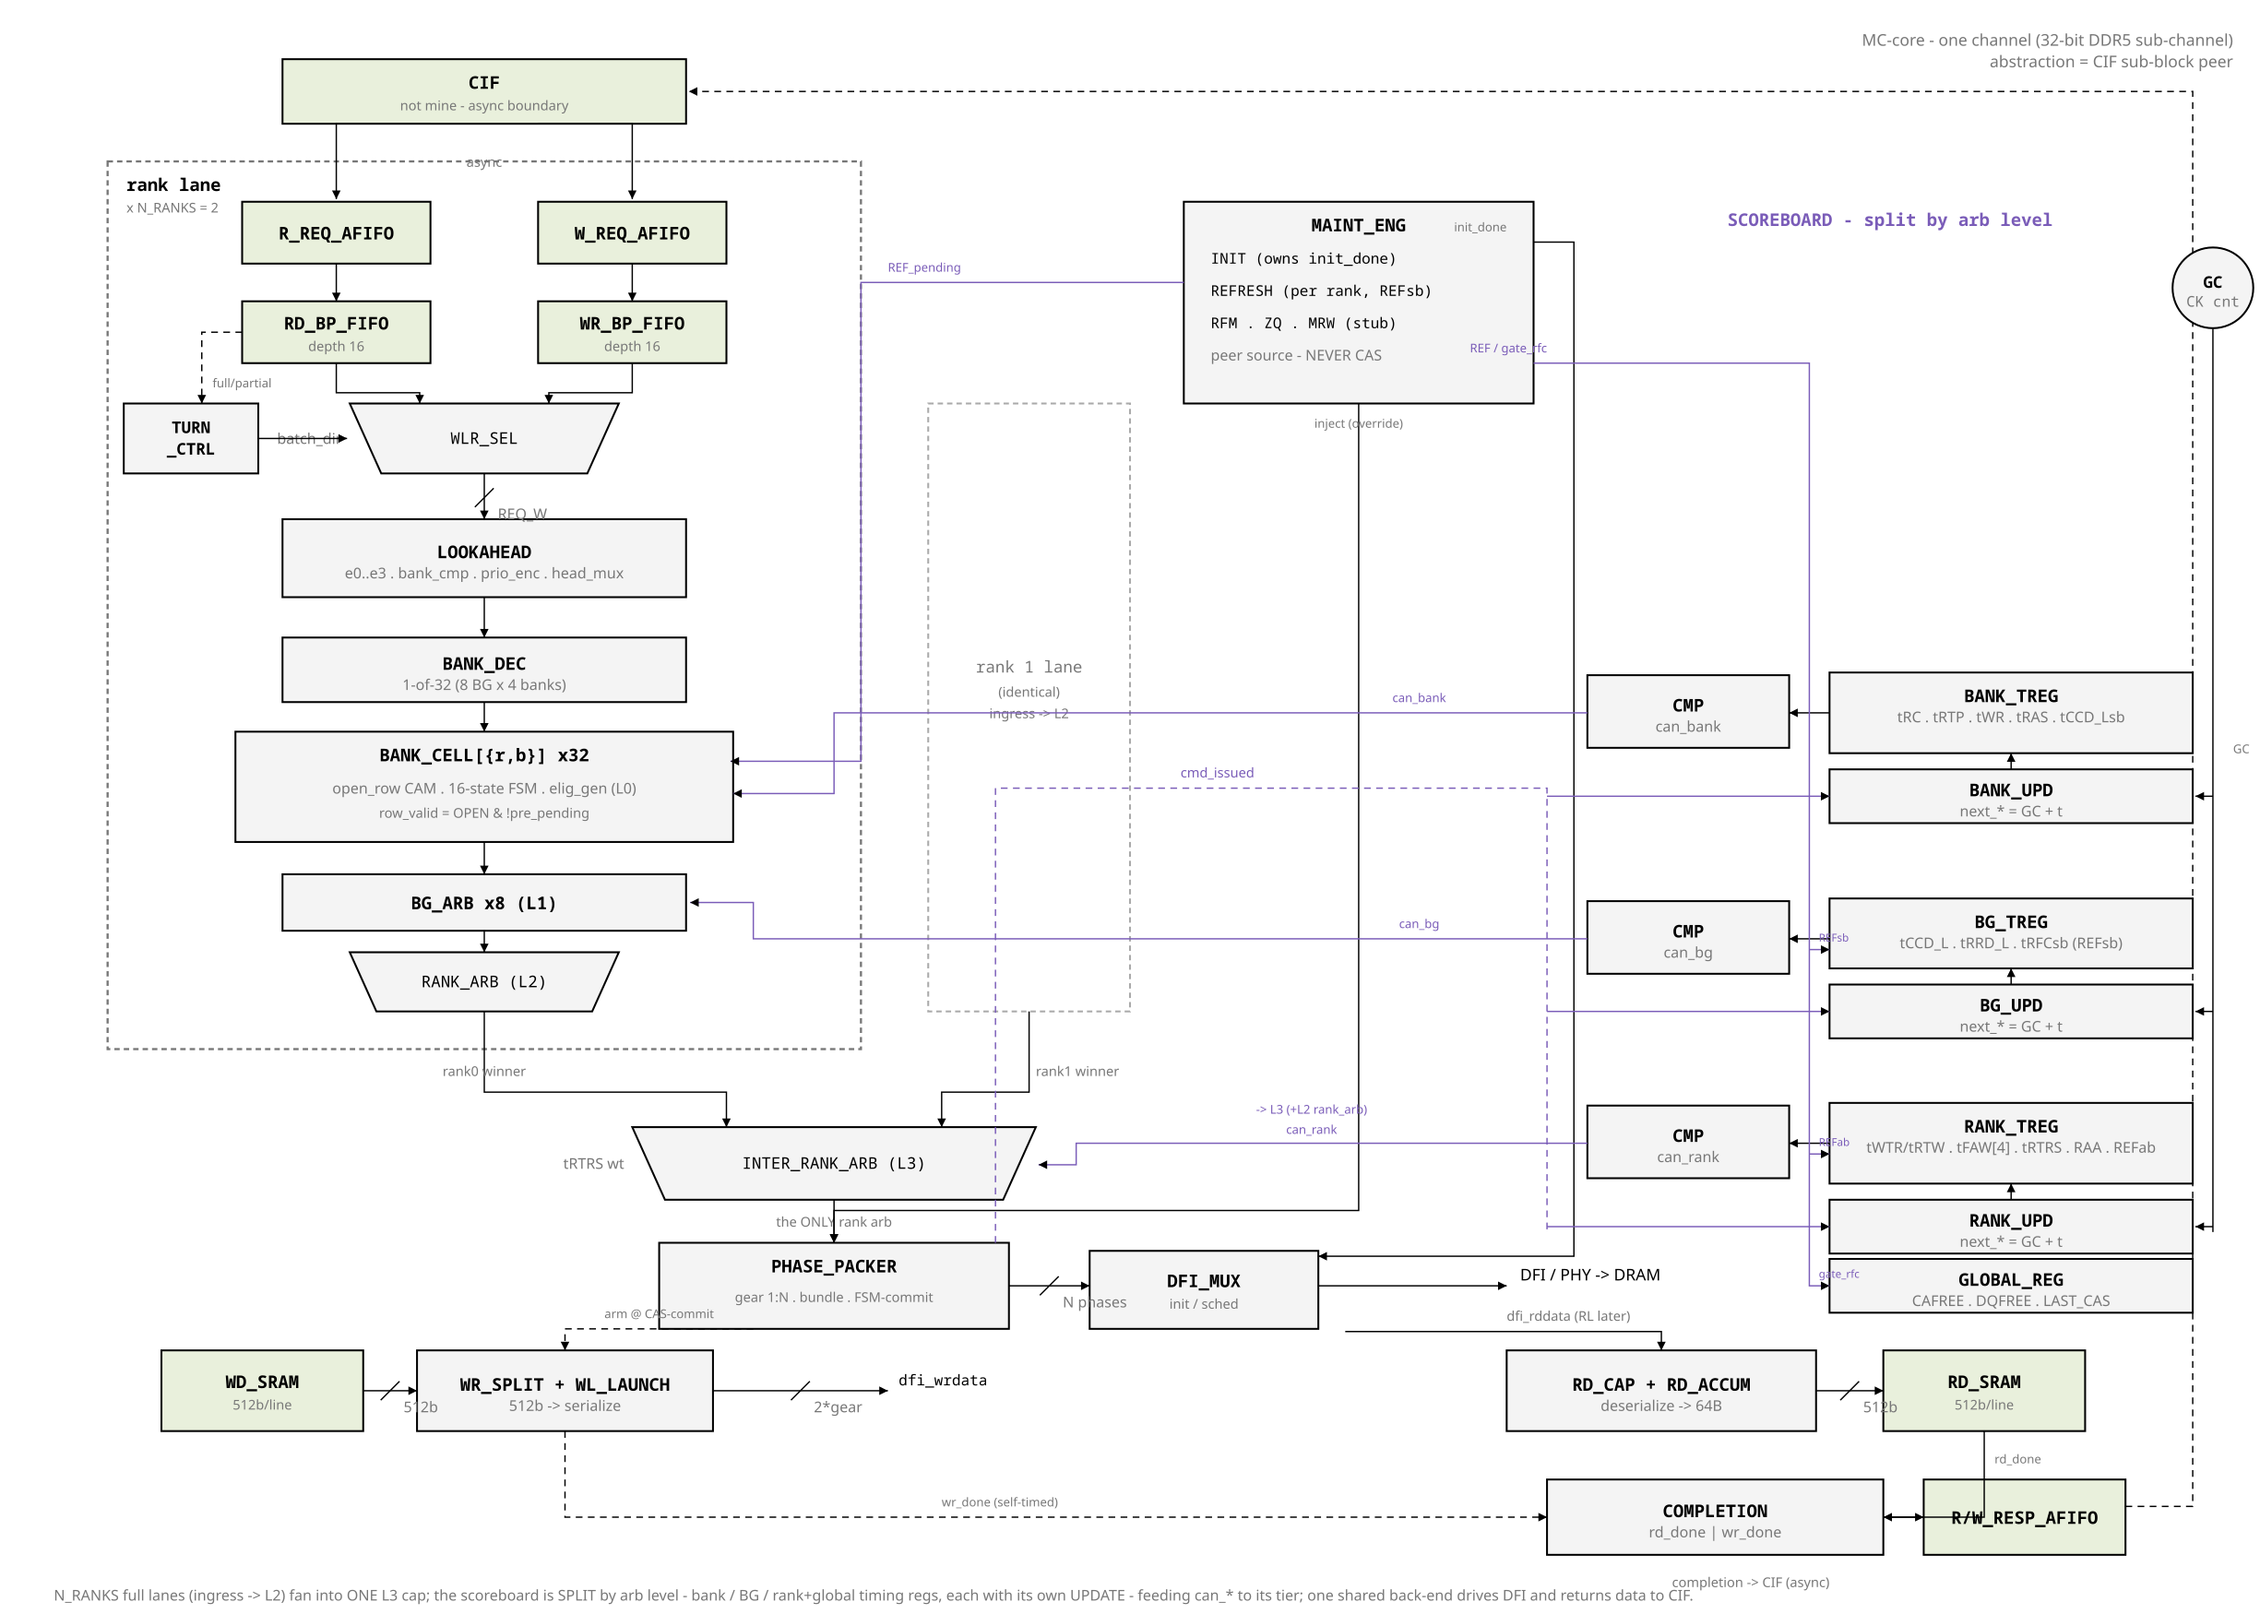
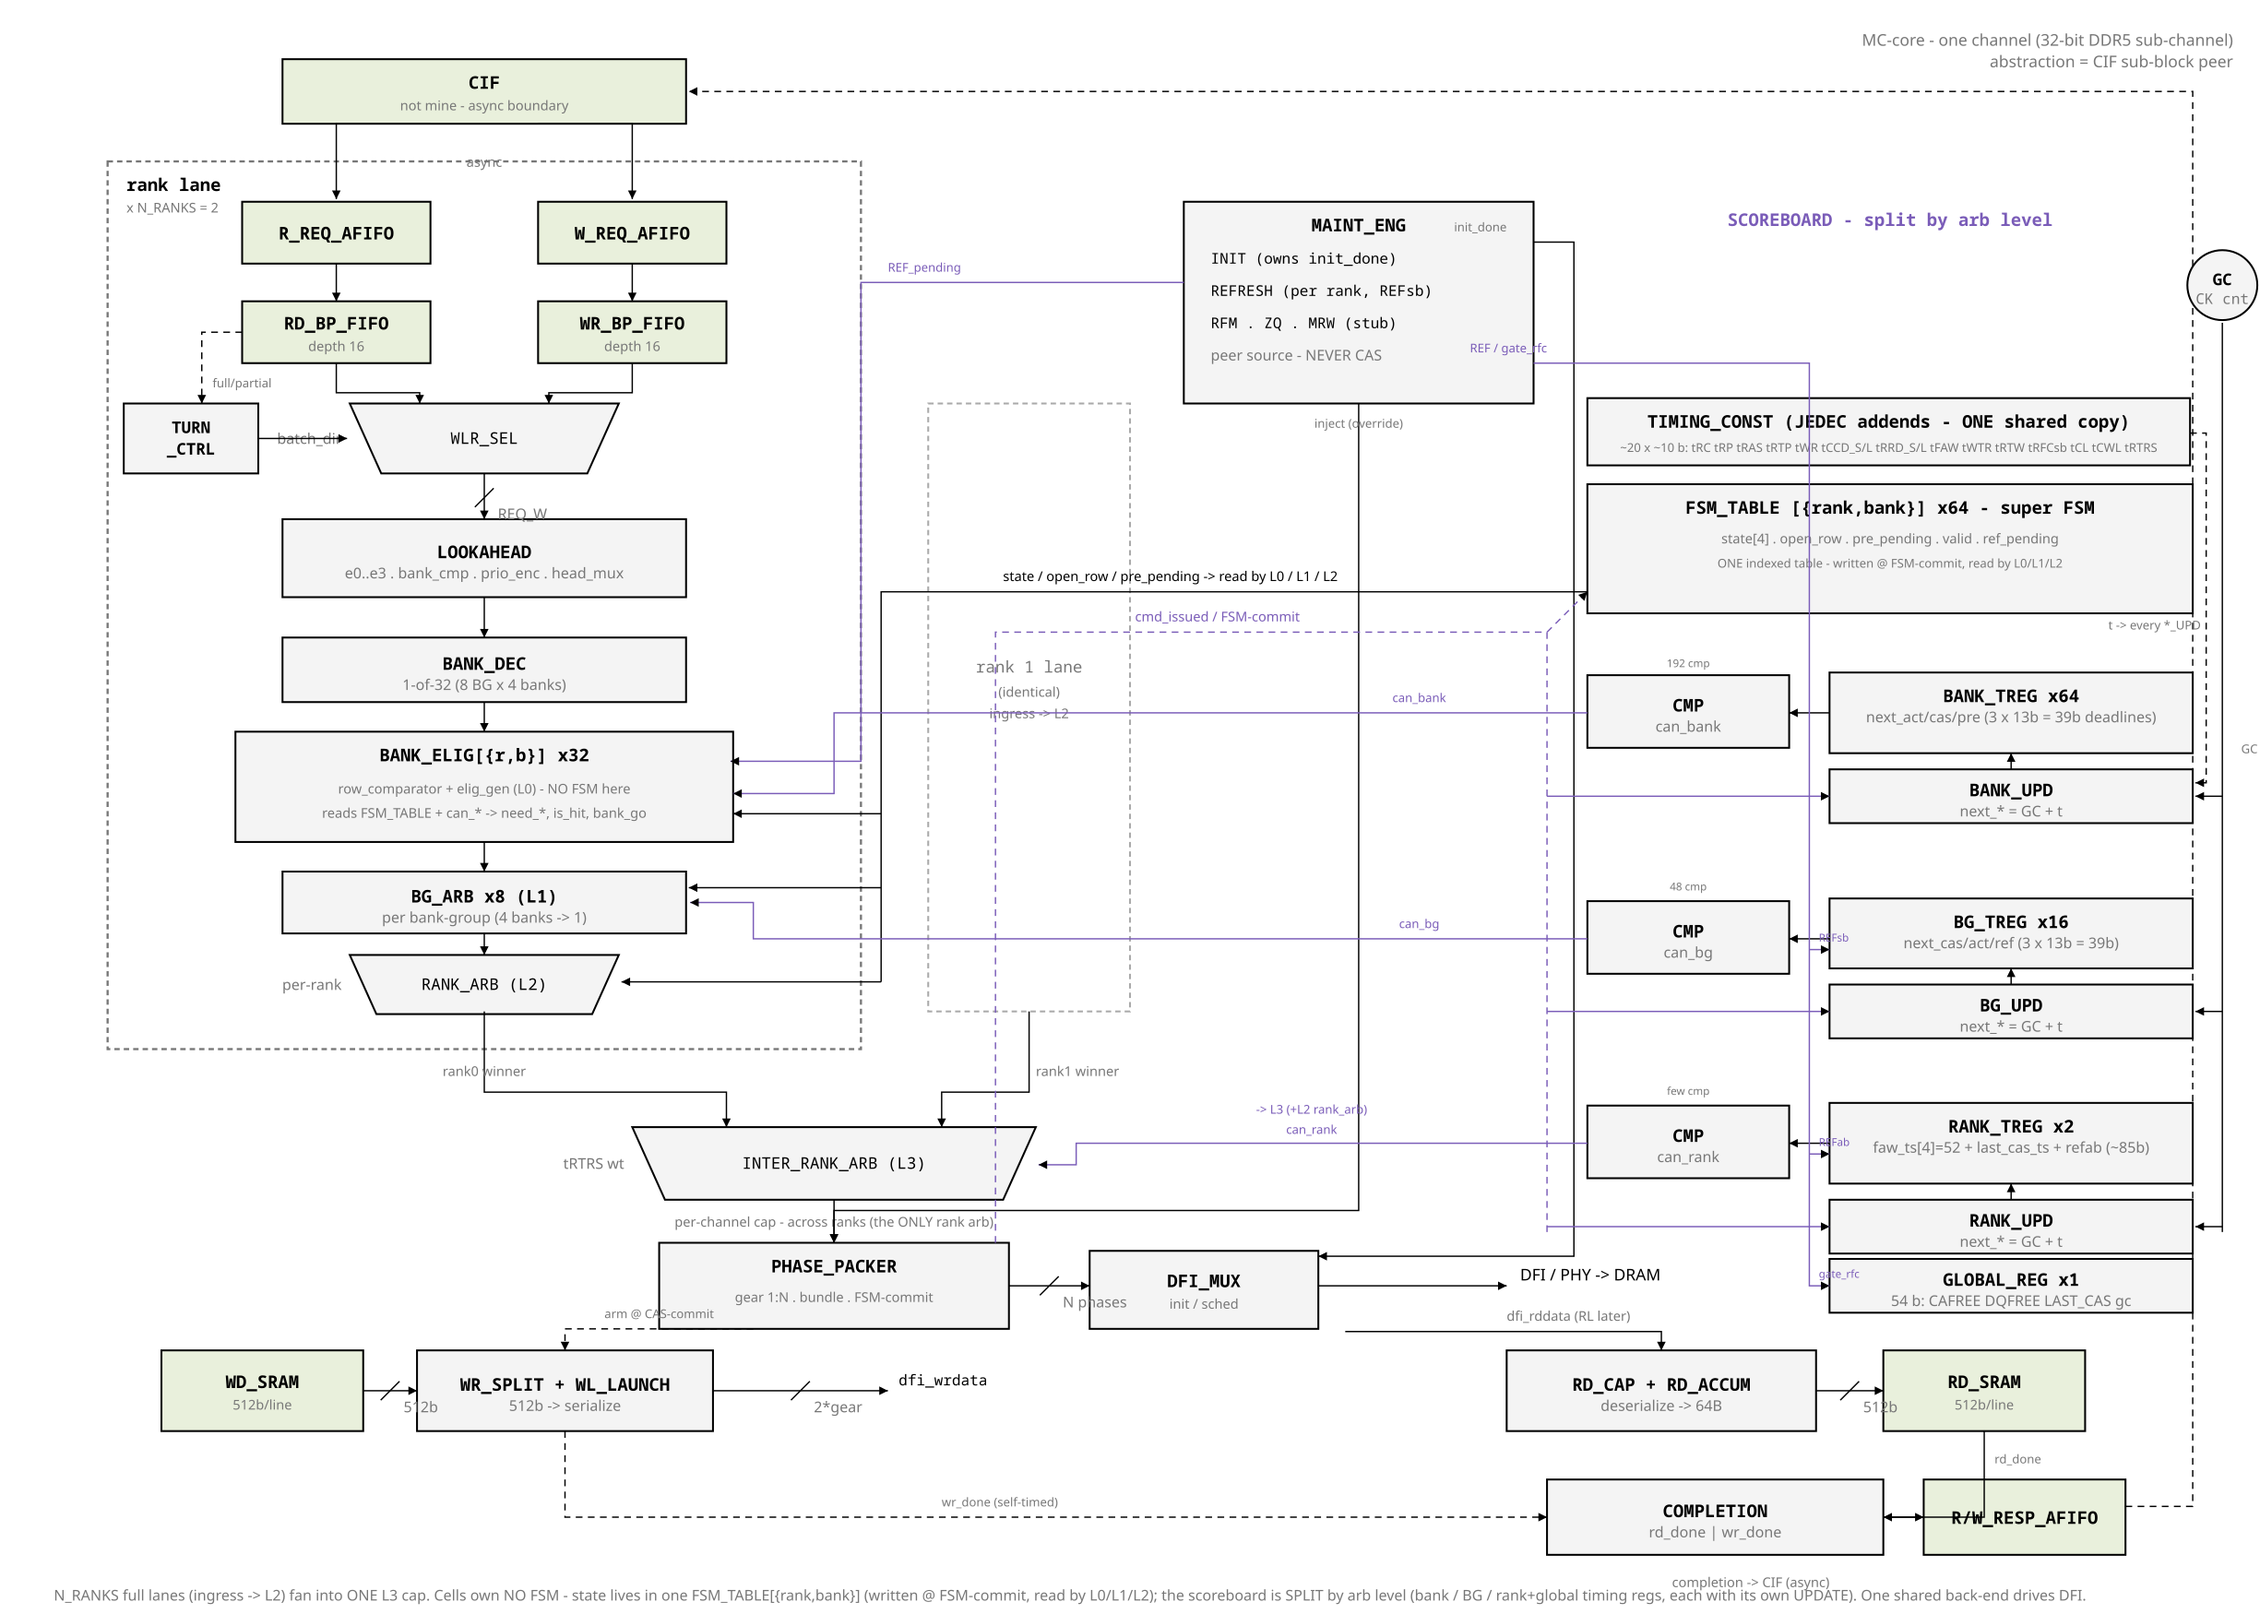
sched-rebuild: fig_mcc_block refinements — FSM table, arb scopes, reg widths
Post-review corrections to the MC-core master block diagram:

- FSM out of the cell: BANK_ELIG[{r,b}] is pure L0 (row_comparator + elig_gen,
  NO FSM); state lives in one FSM_TABLE[{rank,bank}] x64 (super FSM), written
  at FSM-commit, read by L0/L1/L2.
- Arb-level scopes tagged: L0 per-bank, L1 per bank-group, L2 per-rank,
  L3 per-channel cap (across ranks).
- Scoreboard sizing: per-level timing regs are different-shaped RFs —
  BANK_TREG 64x39b, BG_TREG 16x39b, RANK_TREG 2x~85b (faw_ts[4]=52b),
  GLOBAL_REG 1x54b; comparator fan-out 192/48/few.
- Split the two register groups that were conflated: TIMING_CONST (JEDEC
  addends, ONE shared ~200b copy) feeds every *_UPD adder (next_* = GC + t);
  *_TREG hold only the 13-bit deadline timestamps.
- Ref scope: solo-bank REF_pending on cell; REFsb at BG; REFab at rank;
  gate_rfc at global — all fanned from MAINT_ENG.

Claude-Session: https://claude.ai/code/session_01G4CNhHXUyUJFyvGU871tuE

diff --git a/docs/sched_rebuild/fig/fig_mcc_block.py b/docs/sched_rebuild/fig/fig_mcc_block.py
@@ -67,21 +67,21 @@ f.slash(360, 370, "REQ_W")
 f.logic(210, 474, 300, 48, "BANK_DEC", "1-of-32  (8 BG x 4 banks)")
 f.line(360, 444, 360, 474, arrow=True)
 
-# -- per-bank cell array --
-f.logic(175, 544, 370, 82, "BANK_CELL[{r,b}]   x32", top=True)
-f.text(360, 590, "open_row CAM . 16-state FSM . elig_gen (L0)", size=11,
+# -- per-bank L0 elig (NO stored FSM here - reads FSM_TABLE) --
+f.logic(175, 544, 370, 82, "BANK_ELIG[{r,b}]   x32", top=True)
+f.text(360, 590, "row_comparator + elig_gen  (L0)  -  NO FSM here", size=10,
        mono=False, anchor="middle", fill=MUTED)
-f.text(360, 608, "row_valid = OPEN & !pre_pending", size=10, mono=False,
-       anchor="middle", fill=MUTED)
+f.text(360, 608, "reads FSM_TABLE + can_*  ->  need_*, is_hit, bank_go", size=10,
+       mono=False, anchor="middle", fill=MUTED)
 f.line(360, 522, 360, 544, arrow=True)
 
 # -- L1 bg_arb --
-f.logic(210, 650, 300, 42, "BG_ARB  x8    (L1)")
-f.line(360, 626, 360, 650, arrow=True)
+f.logic(210, 648, 300, 46, "BG_ARB  x8   (L1)", "per bank-group  (4 banks -> 1)")
+f.line(360, 626, 360, 648, arrow=True)
 
 # -- L2 rank_arb --
-f.mux(260, 708, 200, 44, "RANK_ARB (L2)")
-f.line(360, 692, 360, 708, arrow=True)
+f.mux(260, 710, 200, 44, "RANK_ARB (L2)", sel="per-rank")
+f.line(360, 694, 360, 710, arrow=True)
 
 # ================= ghost 2nd lane =================
 f.rect(690, 300, 150, 452, fill="none", stroke=FAINT, width=1.4, dashed=True)
@@ -95,8 +95,8 @@ f.path("M360 752 L360 812 L540 812 L540 838", arrow=True)
 f.text(360, 800, "rank0 winner", size=10, mono=False, anchor="middle", fill=MUTED)
 f.path("M765 752 L765 812 L700 812 L700 838", arrow=True)
 f.text(770, 800, "rank1 winner", size=10, mono=False, fill=MUTED)
-f.text(620, 912, "the ONLY rank arb", size=10, mono=False, anchor="middle",
-       fill=MUTED)
+f.text(620, 912, "per-channel cap  -  across ranks (the ONLY rank arb)", size=10,
+       mono=False, anchor="middle", fill=MUTED)
 
 # ================= shared back-end =================
 f.logic(490, 924, 260, 64, "PHASE_PACKER", top=True)
@@ -166,14 +166,42 @@ f.text(660, 202, "REF_pending", size=9, mono=False, fill=SB)
 # its UPDATE block (next_* = GC + timing @ cmd_issued). GLOBAL_REG = shared bus.
 f.text(1405, 168, "SCOREBOARD  -  split by arb level", size=13, anchor="middle",
        bold=True, fill=SB)
-f.counter(1645, 214, 30, "GC", "CK cnt")
+f.counter(1652, 212, 26, "GC", "CK cnt")
+
+# ---- TIMING_CONST : shared JEDEC addends (the constants added to GC) ----
+f.logic(1180, 296, 448, 50, "TIMING_CONST   (JEDEC addends - ONE shared copy)",
+        top=True)
+f.text(1404, 336, "~20 x ~10 b:  tRC tRP tRAS tRTP tWR tCCD_S/L tRRD_S/L tFAW "
+       "tWTR tRTW tRFCsb tCL tCWL tRTRS", size=9, mono=False, anchor="middle",
+       fill=MUTED)
+# feeds every *_UPD adder (next_* = GC + t)
+f.path("M1628 322 L1640 322 L1640 582 L1632 582", arrow=True, dashed=True)
+f.text(1636, 468, "t -> every *_UPD", size=9, mono=False, anchor="end",
+       fill=MUTED)
+
+# ---- FSM_TABLE : the SUPER FSM (cells own no FSM; state lives here) ----
+f.logic(1180, 360, 450, 96, "FSM_TABLE  [{rank,bank}] x64   -   super FSM",
+        top=True)
+f.text(1405, 404, "state[4] . open_row . pre_pending . valid . ref_pending",
+       size=10, mono=False, anchor="middle", fill=MUTED)
+f.text(1405, 422, "ONE indexed table  -  written @ FSM-commit, read by L0/L1/L2",
+       size=9, mono=False, anchor="middle", fill=MUTED)
+# FSM_TABLE state read out to EVERY arb level (L0, L1, L2)
+f.path("M1180 440 L655 440 L655 730", arrow=False)      # read spine
+f.line(655, 605, 545, 605, arrow=True)                  # -> L0 (BANK_ELIG)
+f.line(655, 660, 512, 660, arrow=True)                  # -> L1 (BG_ARB)
+f.line(655, 730, 462, 730, arrow=True)                  # -> L2 (RANK_ARB)
+f.text(870, 432, "state / open_row / pre_pending  ->  read by L0 / L1 / L2",
+       size=10, mono=False, anchor="middle")
 
 # GC broadcast bus down the far right (feeds every UPDATE)
-f.line(1645, 244, 1645, 916)
-f.text(1660, 560, "GC", size=9, mono=False, fill=MUTED)
-# cmd_issued bus from packer (triggers every UPDATE, carries issued cmd)
-f.path("M740 924 L740 586 L1150 586 L1150 916", dashed=True, stroke=SB)
-f.text(905, 578, "cmd_issued", size=10, mono=False, anchor="middle", fill=SB)
+f.line(1652, 240, 1652, 916)
+f.text(1666, 560, "GC", size=9, mono=False, fill=MUTED)
+# commit bus from packer: one edge updates FSM_TABLE + every timing UPDATE
+f.path("M740 924 L740 470 L1150 470 L1150 916", dashed=True, stroke=SB)
+f.line(1150, 470, 1180, 440, arrow=True, dashed=True, stroke=SB)  # -> FSM_TABLE
+f.text(905, 462, "cmd_issued / FSM-commit", size=10, mono=False, anchor="middle",
+       fill=SB)
 
 
 def level(y, treg, params, cmpn, upd, tier_path, lbl_xy, th=60):
@@ -184,24 +212,29 @@ def level(y, treg, params, cmpn, upd, tier_path, lbl_xy, th=60):
     f.logic(1360, uy, 270, 40, upd, "next_* = GC + t")
     f.line(1360, y + 30, 1330, y + 30, arrow=True)              # next_* -> CMP
     f.line(1495, uy, 1495, uy - 12, arrow=True)                 # UPD writes TREG
-    f.line(1645, uy + 20, 1632, uy + 20, arrow=True)            # GC -> UPD
+    f.line(1652, uy + 20, 1632, uy + 20, arrow=True)            # GC -> UPD
     f.line(1150, uy + 20, 1360, uy + 20, arrow=True, stroke=SB)  # cmd_issued -> UPD
     f.path(tier_path, arrow=True, stroke=SB)                    # can_* -> tier
     f.text(lbl_xy[0], lbl_xy[1], cmpn, size=9, mono=False, anchor="middle",
            fill=SB)
 
 
-level(500, "BANK_TREG", "tRC . tRTP . tWR . tRAS . tCCD_Lsb", "can_bank",
-      "BANK_UPD", "M1180 530 L620 530 L620 590 L545 590", (1055, 522))
-level(668, "BG_TREG", "tCCD_L . tRRD_L . tRFCsb (REFsb)", "can_bg",
+level(500, "BANK_TREG   x64", "next_act/cas/pre  (3 x 13b = 39b deadlines)",
+      "can_bank", "BANK_UPD", "M1180 530 L620 530 L620 590 L545 590", (1055, 522))
+level(668, "BG_TREG   x16", "next_cas/act/ref  (3 x 13b = 39b)", "can_bg",
       "BG_UPD", "M1180 698 L560 698 L560 671 L513 671", (1055, 690), th=52)
-level(820, "RANK_TREG", "tWTR/tRTW . tFAW[4] . tRTRS . RAA . REFab", "can_rank",
-      "RANK_UPD", "M1180 850 L800 850 L800 866 L772 866", (975, 843))
+level(820, "RANK_TREG   x2", "faw_ts[4]=52 + last_cas_ts + refab  (~85b)",
+      "can_rank", "RANK_UPD", "M1180 850 L800 850 L800 866 L772 866", (975, 843))
+
+# comparator fan-out per level (tracks depth x fields) - above each CMP
+f.text(1255, 496, "192 cmp", size=8, mono=False, anchor="middle", fill=MUTED)
+f.text(1255, 662, "48 cmp", size=8, mono=False, anchor="middle", fill=MUTED)
+f.text(1255, 814, "few cmp", size=8, mono=False, anchor="middle", fill=MUTED)
 f.text(975, 828, "-> L3  (+L2 rank_arb)", size=9, mono=False, anchor="middle",
        fill=SB)
 
 # global reg under the rank level (shared bus state)
-f.logic(1360, 936, 270, 40, "GLOBAL_REG", "CAFREE . DQFREE . LAST_CAS")
+f.logic(1360, 936, 270, 40, "GLOBAL_REG   x1", "54 b:  CAFREE DQFREE LAST_CAS gc")
 
 # REF / gate_rfc fan from maintenance -> every ref-scoped level.
 # bank = solo REF_pending (arrow above); BG = REFsb; rank = REFab; global = gate_rfc.
@@ -213,10 +246,11 @@ f.text(1352, 700, "REFsb", size=8, mono=False, fill=SB)
 f.text(1352, 852, "REFab", size=8, mono=False, fill=SB)
 f.text(1352, 950, "gate_rfc", size=8, mono=False, fill=SB)
 
-f.caption(40, 1190, "N_RANKS full lanes (ingress -> L2) fan into ONE L3 cap; the "
-                    "scoreboard is SPLIT by arb level - bank / BG / rank+global "
-                    "timing regs, each with its own UPDATE - feeding can_* to its "
-                    "tier; one shared back-end drives DFI and returns data to CIF.")
+f.caption(40, 1190, "N_RANKS full lanes (ingress -> L2) fan into ONE L3 cap. Cells "
+                    "own NO FSM - state lives in one FSM_TABLE[{rank,bank}] "
+                    "(written @ FSM-commit, read by L0/L1/L2); the scoreboard is "
+                    "SPLIT by arb level (bank / BG / rank+global timing regs, each "
+                    "with its own UPDATE). One shared back-end drives DFI.")
 
 f.save("fig_mcc_block.svg")
 print("wrote fig_mcc_block.svg")
